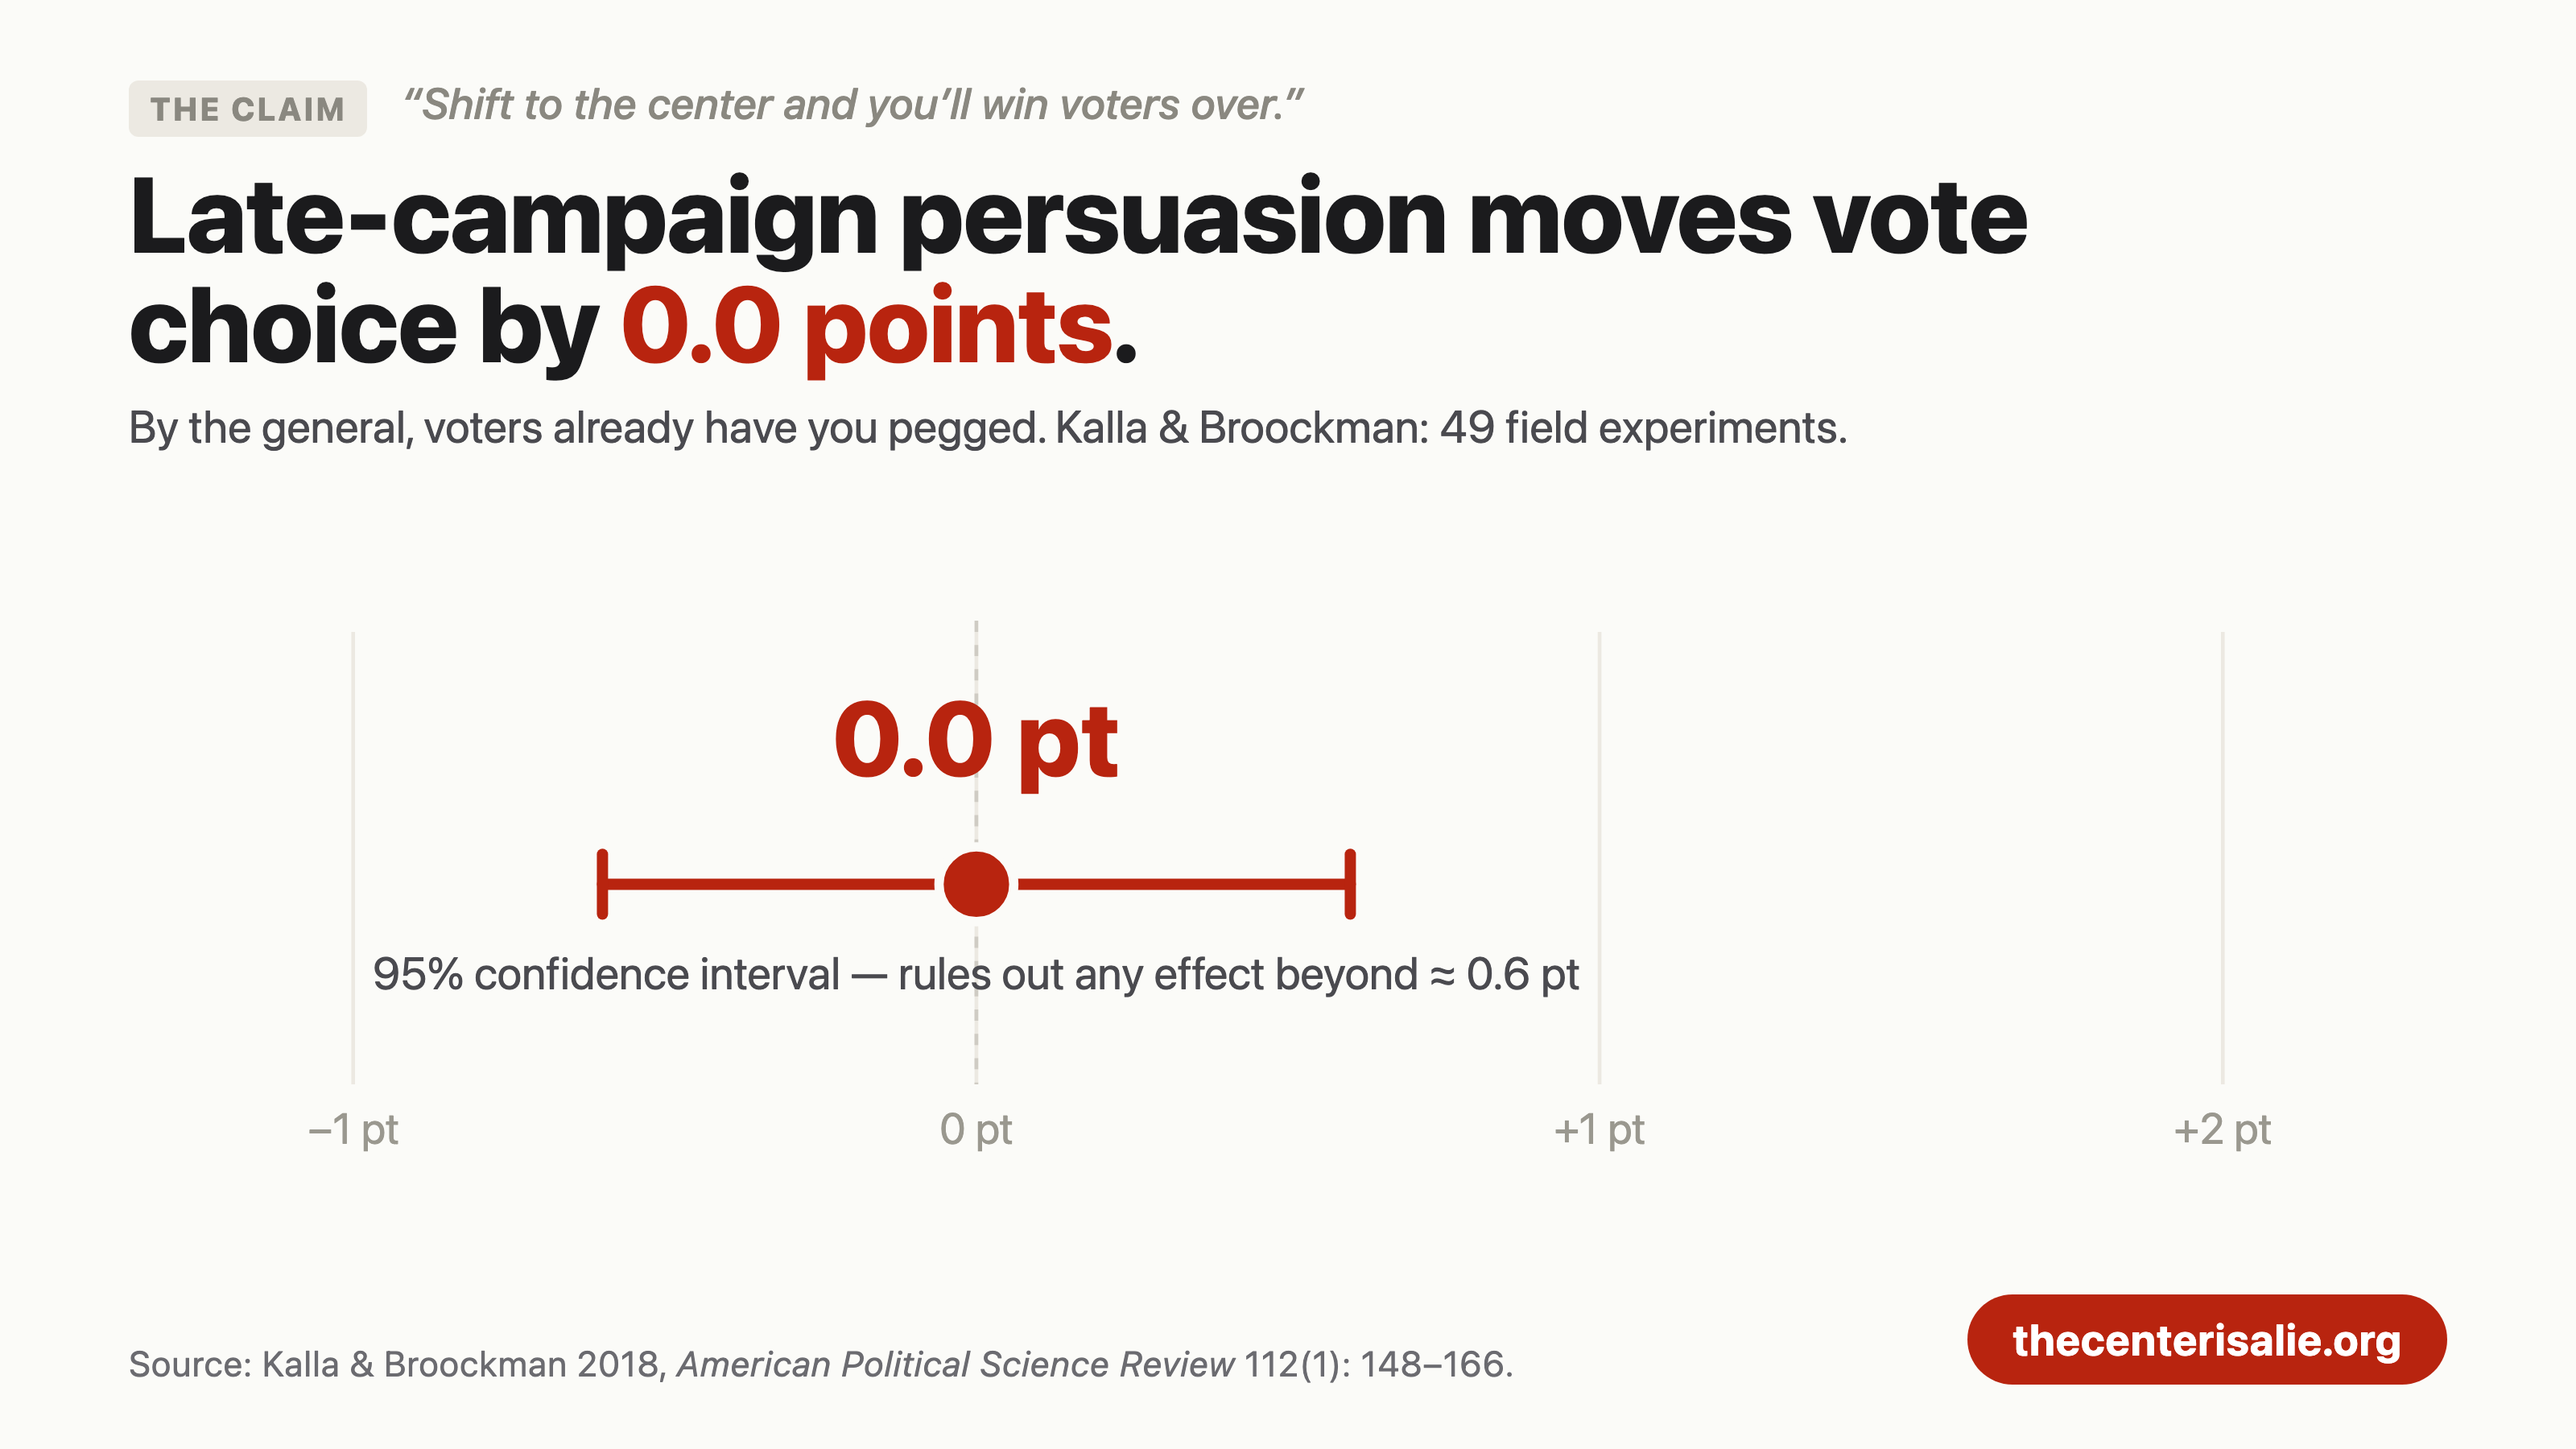
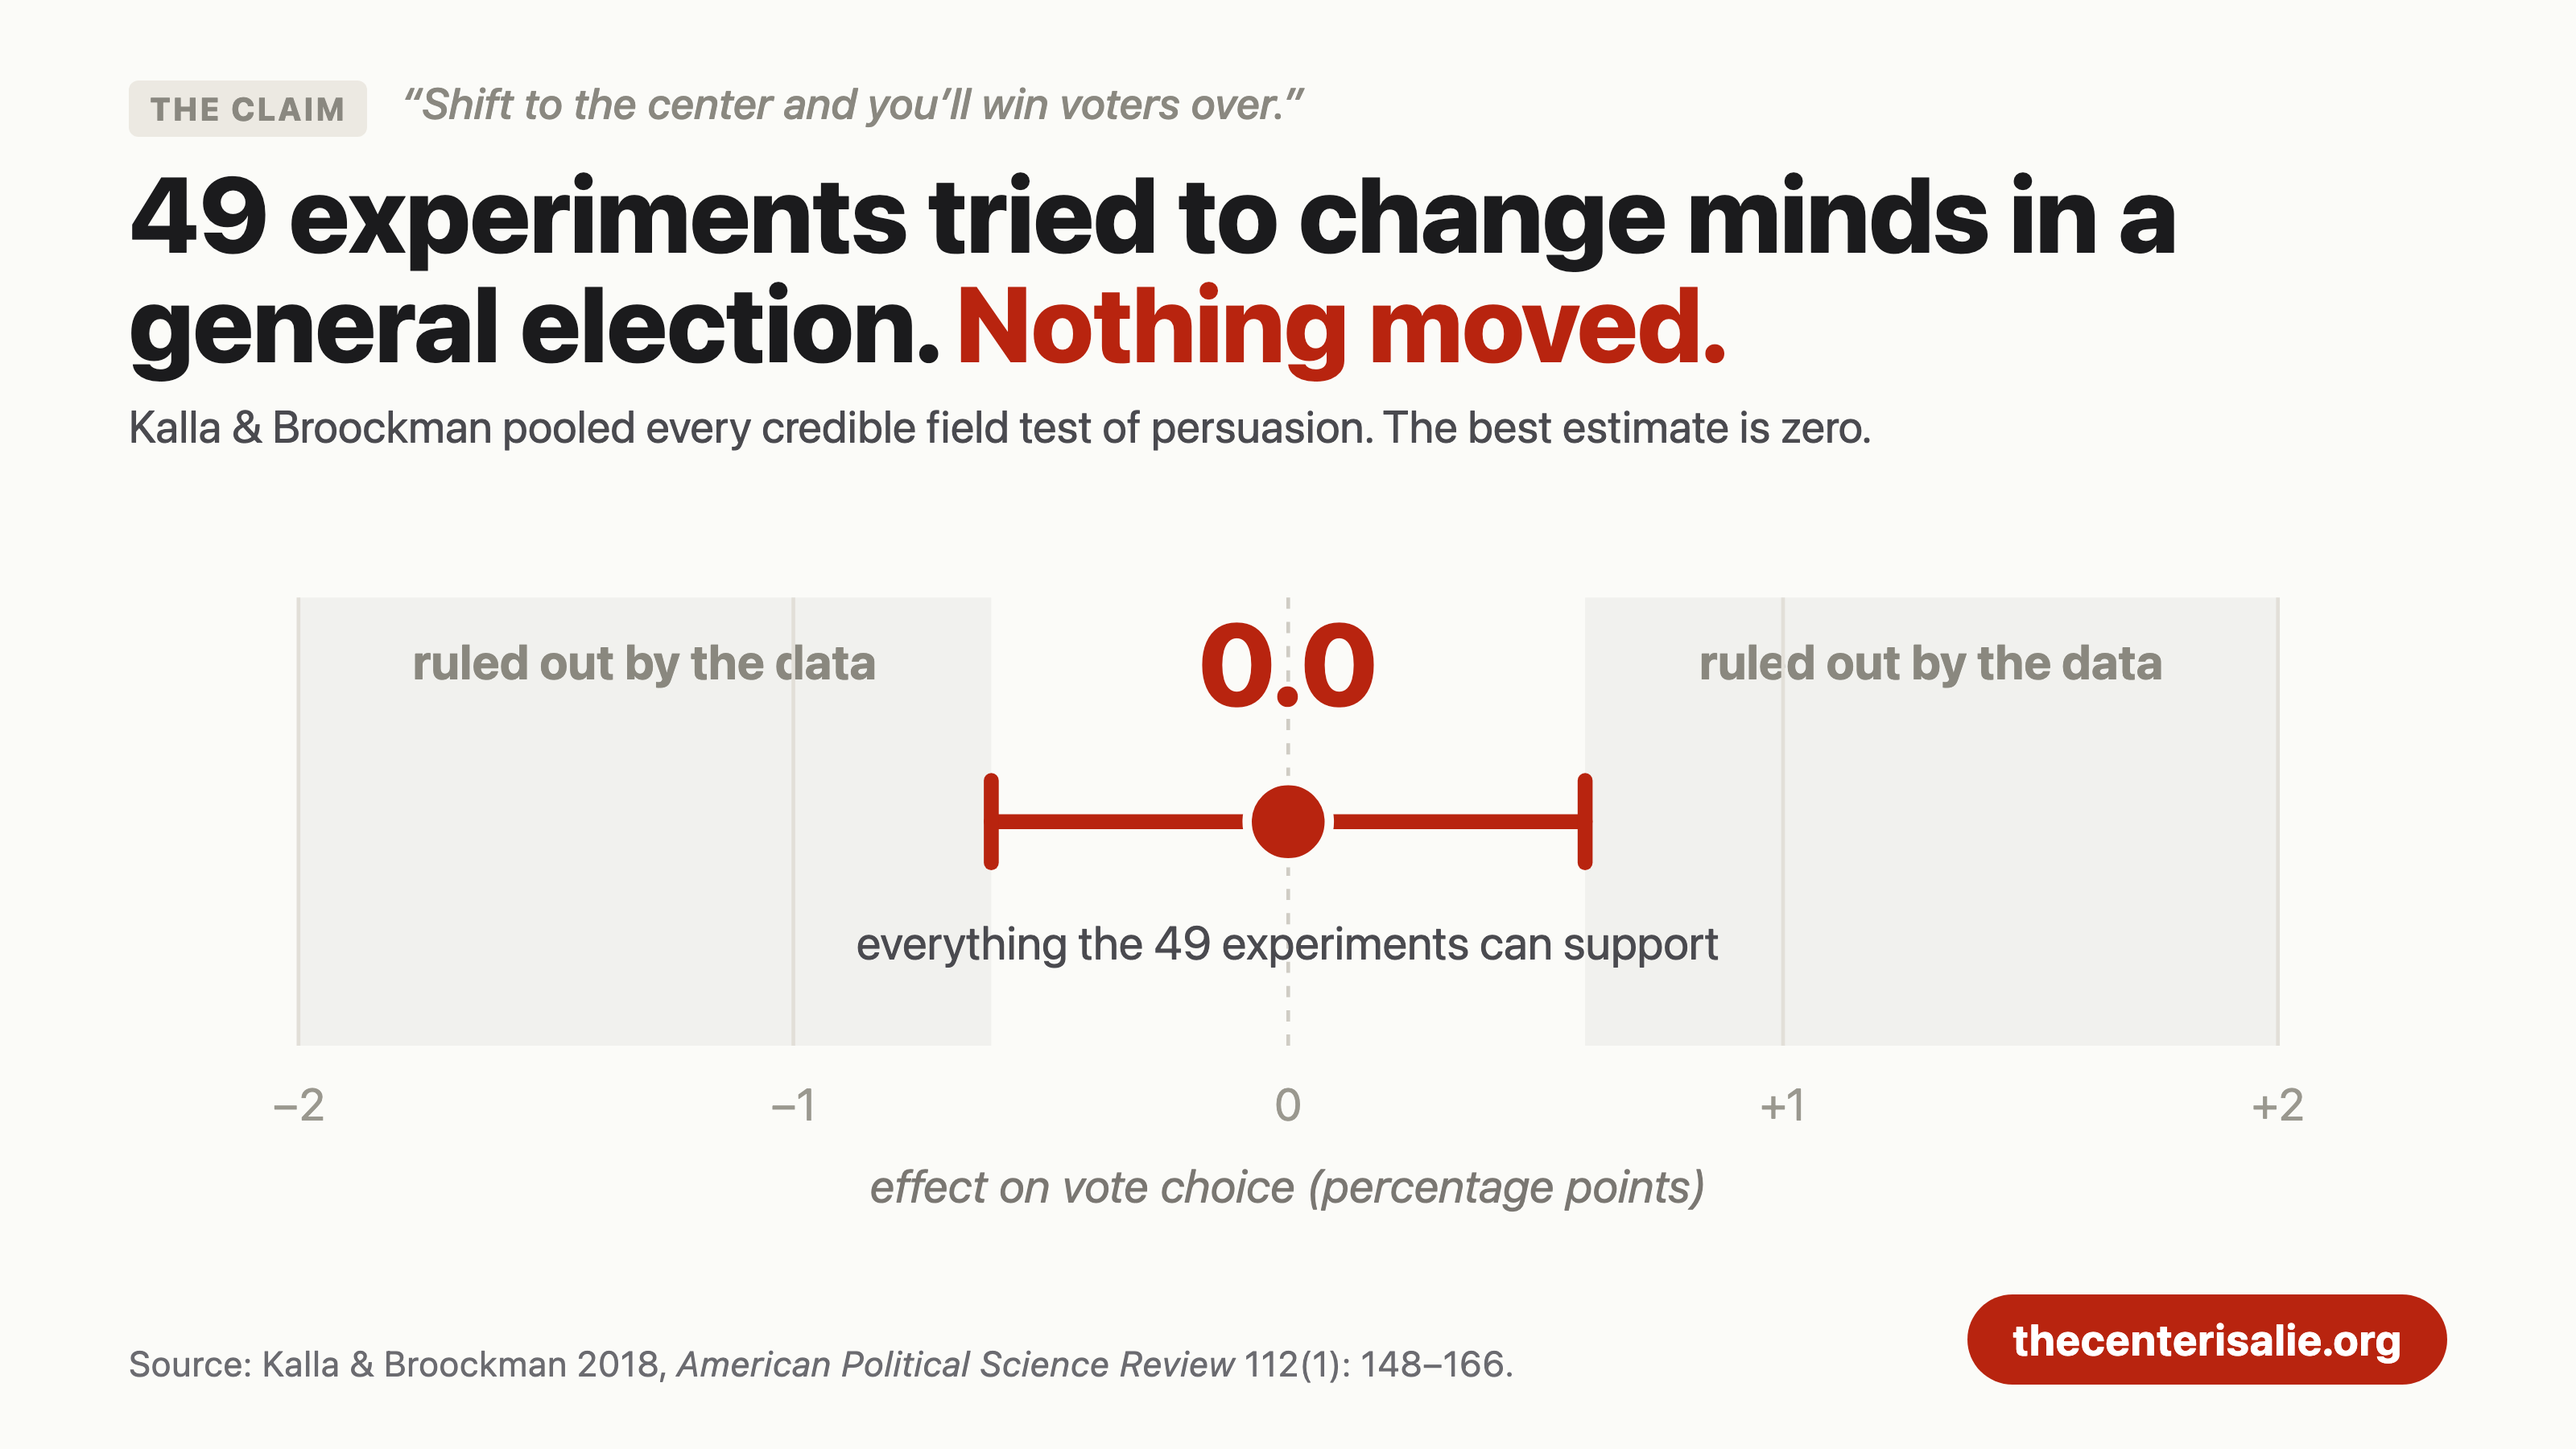
fix(og): rebuild persuasion around the ruled-out region
A lone null CI floating in white space read as weak. Symmetric axis with the
excluded range shaded makes the null the visual point; title leads with the
49 experiments instead of the coefficient.

diff --git a/web/og-cards/chart-persuasion.html b/web/og-cards/chart-persuasion.html
@@ -3,11 +3,11 @@
 <body>
   <div class="chartcard">
     <div class="cc-claim"><span class="tag">The claim</span> &ldquo;Shift to the center and you&rsquo;ll win voters over.&rdquo;</div>
-    <div class="cc-title">Late-campaign persuasion moves vote choice by <span class="hl">0.0 points</span>.</div>
-    <div class="cc-sub">By the general, voters already have you pegged. Kalla &amp; Broockman: 49 field experiments.</div>
+    <div class="cc-title">49 experiments tried to change minds in a general election. <span class="hl">Nothing moved.</span></div>
+    <div class="cc-sub">Kalla &amp; Broockman pooled every credible field test of persuasion. The best estimate is zero.</div>
 
-    <div class="cc-chart"><svg id="persuasion" viewBox="0 0 1240 340" role="img"
-      aria-label="Effect on vote choice: point estimate 0.0 points, 95% confidence interval rules out effects beyond about 0.6 points"></svg></div>
+    <div class="cc-chart"><svg id="persuasion" viewBox="0 0 1240 449" role="img"
+      aria-label="Effect of general-election persuasion on vote choice: point estimate 0.0 points, with the data ruling out any effect beyond about 0.6 points either way"></svg></div>
 
     <div class="cc-foot">
       <div class="cc-source">Source: Kalla &amp; Broockman 2018, <em>American Political Science Review</em> 112(1): 148&ndash;166.</div>
@@ -19,28 +19,33 @@
     const NS = 'http://www.w3.org/2000/svg';
     const svg = document.getElementById('persuasion');
     const el = (t, a) => { const n = document.createElementNS(NS, t); for (const k in a) n.setAttribute(k, a[k]); return n; };
-    // axis: -1 .. +2 pp
-    const X0 = 120, X1 = 1120, LO = -1, HI = 2, sc = (X1 - X0) / (HI - LO);
+    const txt = (a, s) => { const t = el('text', a); t.textContent = s; svg.appendChild(t); return t; };
+
+    const X0 = 90, X1 = 1150, LO = -2, HI = 2, sc = (X1 - X0) / (HI - LO);
     const x = (v) => X0 + (v - LO) * sc;
-    const plotTop = 40, cy = 175, axisY = 282;
+    const bandTop = 76, bandBot = 316, cy = (bandTop + bandBot) / 2;
+    const CI = 0.6;
+
+    // regions the data rules out
+    [[LO, -CI], [CI, HI]].forEach(([a, b]) => {
+      svg.appendChild(el('rect', { x: x(a), y: bandTop, width: x(b) - x(a), height: bandBot - bandTop, fill: '#1b1b1d', 'fill-opacity': 0.045 }));
+    });
+    txt({ x: (x(LO) + x(-CI)) / 2, y: bandTop + 44, 'text-anchor': 'middle', fill: '#8a887f', 'font-size': 26, 'font-weight': 700 }, 'ruled out by the data');
+    txt({ x: (x(CI) + x(HI)) / 2, y: bandTop + 44, 'text-anchor': 'middle', fill: '#8a887f', 'font-size': 26, 'font-weight': 700 }, 'ruled out by the data');
+
     // gridlines + ticks
-    for (let v = -1; v <= 2; v++) {
-      svg.appendChild(el('line', { x1: x(v), y1: plotTop, x2: x(v), y2: axisY, stroke: '#ece9e2', 'stroke-width': 2 }));
-      const t = el('text', { x: x(v), y: axisY + 32, 'text-anchor': 'middle', fill: '#9a988f', 'font-size': 23 });
-      t.textContent = (v > 0 ? '+' : v < 0 ? '−' : '') + Math.abs(v) + ' pt'; svg.appendChild(t);
+    for (let v = LO; v <= HI; v++) {
+      svg.appendChild(el('line', { x1: x(v), y1: bandTop, x2: x(v), y2: bandBot, stroke: v === 0 ? '#cfccc4' : '#e2dfd8', 'stroke-width': 2, ...(v === 0 ? { 'stroke-dasharray': '6 7' } : {}) }));
+      txt({ x: x(v), y: bandBot + 40, 'text-anchor': 'middle', fill: '#9a988f', 'font-size': 24 }, (v > 0 ? '+' : v < 0 ? '−' : '') + Math.abs(v));
     }
-    // emphasized zero line
-    svg.appendChild(el('line', { x1: x(0), y1: plotTop - 6, x2: x(0), y2: axisY, stroke: '#cfccc4', 'stroke-width': 2, 'stroke-dasharray': '6 7' }));
-    // 95% CI whisker (point est 0.0, half-width ~0.6)
-    svg.appendChild(el('line', { x1: x(-0.6), y1: cy, x2: x(0.6), y2: cy, stroke: '#b8240f', 'stroke-width': 6, 'stroke-linecap': 'round' }));
-    [-0.6, 0.6].forEach((v) => svg.appendChild(el('line', { x1: x(v), y1: cy - 16, x2: x(v), y2: cy + 16, stroke: '#b8240f', 'stroke-width': 6, 'stroke-linecap': 'round' })));
-    // point estimate dot at 0.0
-    svg.appendChild(el('circle', { cx: x(0), cy, r: 20, fill: '#b8240f', stroke: '#fbfbf8', 'stroke-width': 5 }));
-    // big estimate label
-    const big = el('text', { x: x(0), y: cy - 58, 'text-anchor': 'middle', fill: '#b8240f', 'font-size': 56, 'font-weight': 800 });
-    big.textContent = '0.0 pt'; svg.appendChild(big);
-    // CI annotation
-    const ann = el('text', { x: x(0), y: cy + 56, 'text-anchor': 'middle', fill: '#4a4a4f', 'font-size': 24 });
-    ann.textContent = '95% confidence interval — rules out any effect beyond ≈ 0.6 pt'; svg.appendChild(ann);
+    txt({ x: (X0 + X1) / 2, y: bandBot + 84, 'text-anchor': 'middle', fill: '#7a7772', 'font-size': 25, 'font-style': 'italic' }, 'effect on vote choice (percentage points)');
+
+    // the whole plausible range, in red
+    svg.appendChild(el('line', { x1: x(-CI), y1: cy, x2: x(CI), y2: cy, stroke: '#b8240f', 'stroke-width': 8, 'stroke-linecap': 'round' }));
+    [-CI, CI].forEach((v) => svg.appendChild(el('line', { x1: x(v), y1: cy - 22, x2: x(v), y2: cy + 22, stroke: '#b8240f', 'stroke-width': 8, 'stroke-linecap': 'round' })));
+    svg.appendChild(el('circle', { cx: x(0), cy, r: 22, fill: '#b8240f', stroke: '#fbfbf8', 'stroke-width': 5 }));
+
+    txt({ x: x(0), y: cy - 62, 'text-anchor': 'middle', fill: '#b8240f', 'font-size': 62, 'font-weight': 800 }, '0.0');
+    txt({ x: x(0), y: cy + 74, 'text-anchor': 'middle', fill: '#4a4a4f', 'font-size': 25 }, 'everything the 49 experiments can support');
   </script>
 </body></html>
